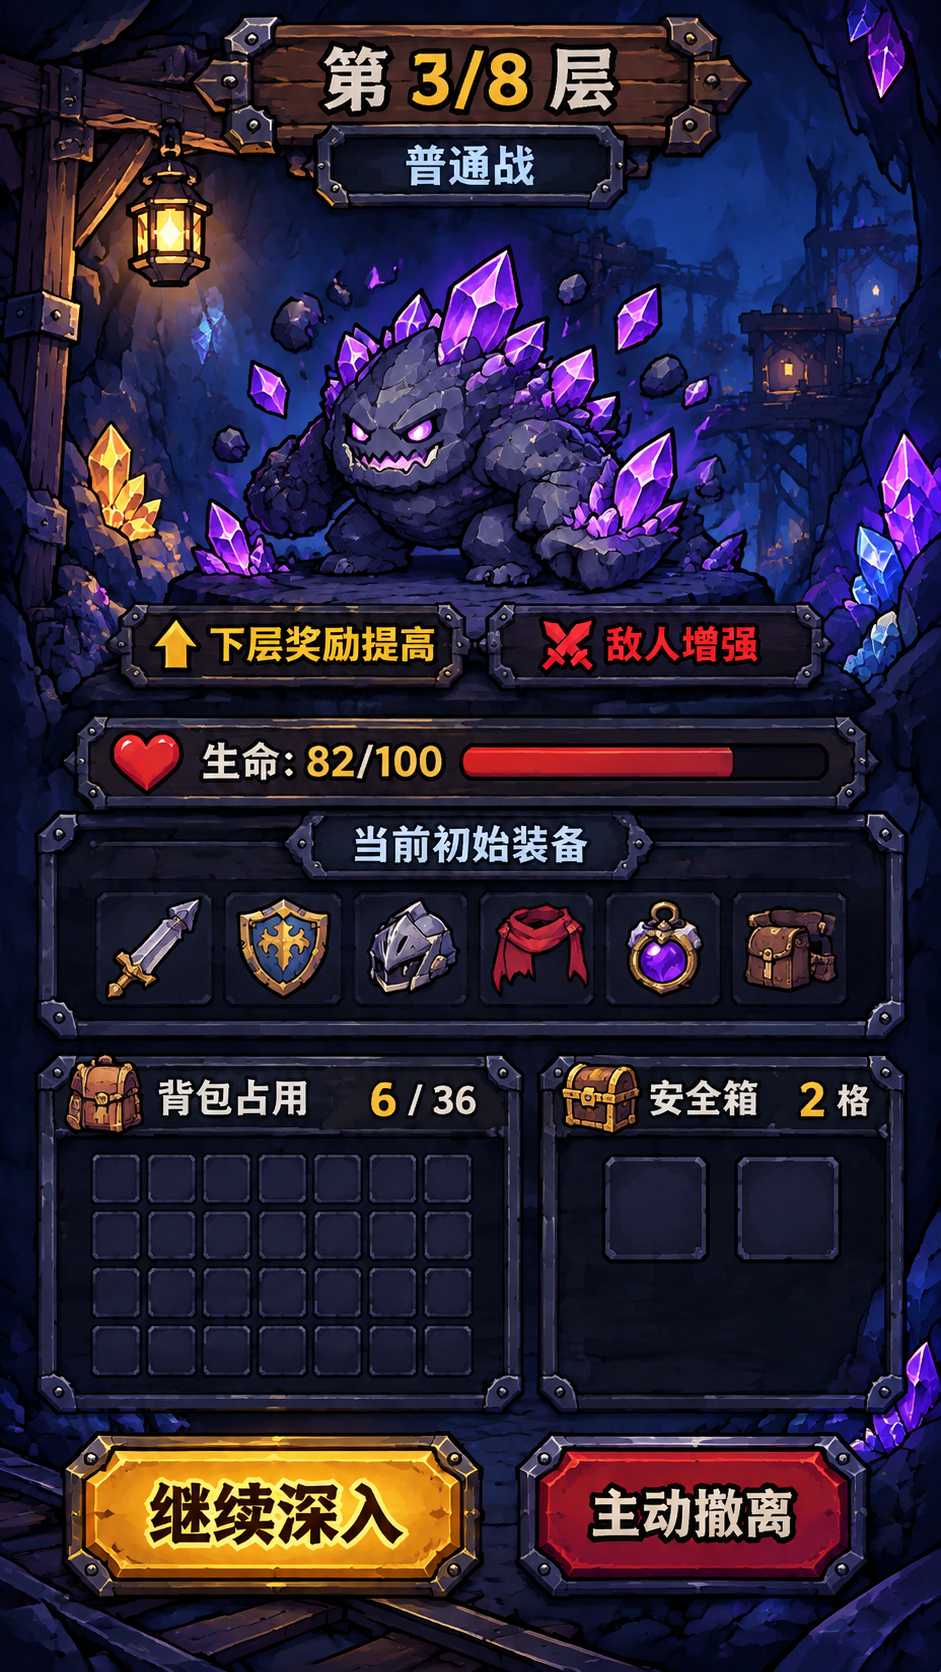
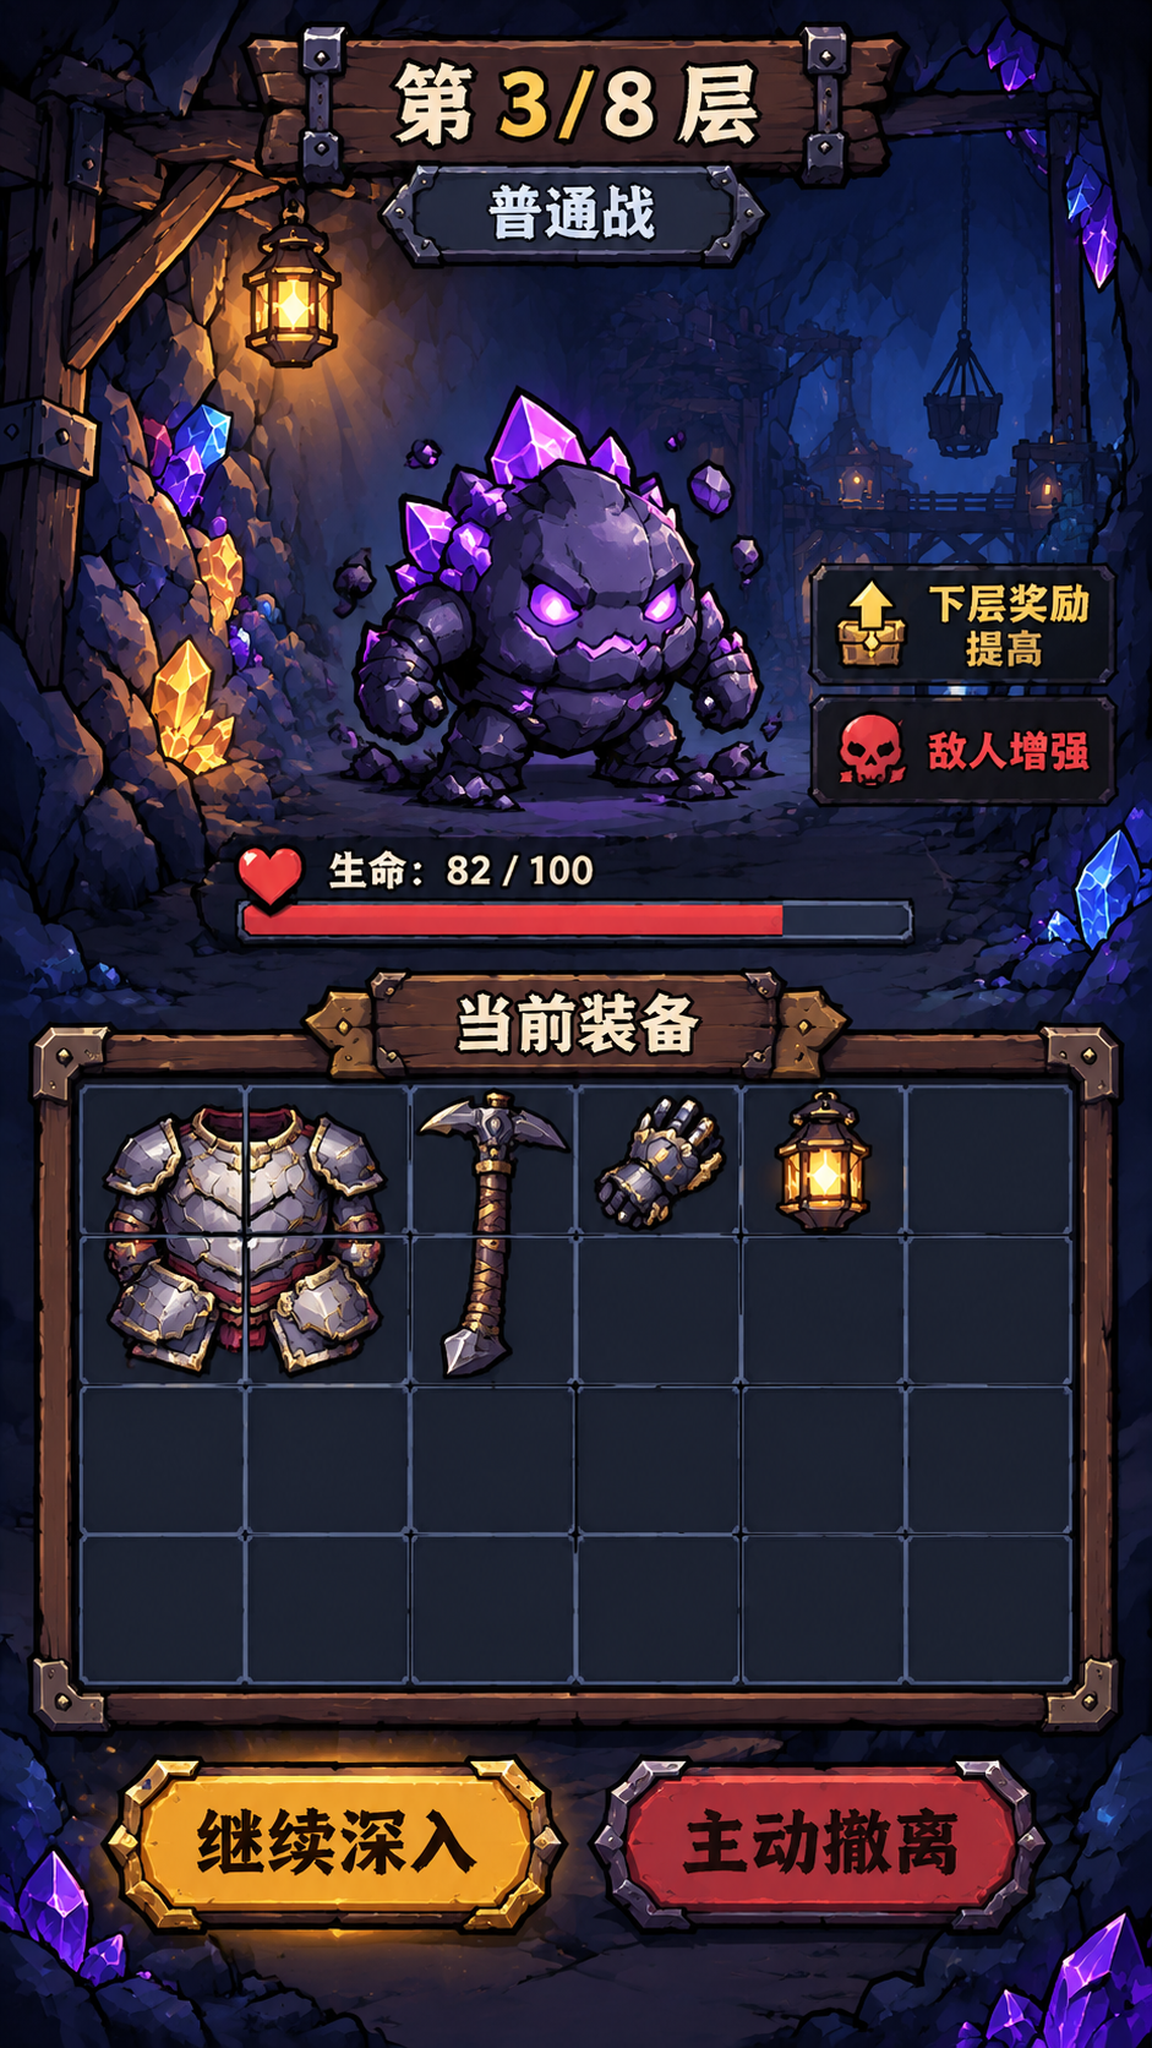
feat：矿脉行者 SC-003 改展示当前装备 6×4 栏，新增装备→形状分配表（E01–E12）
- 01-GAMEPLAY：新增 P016 装备→形状分配表为唯一真源（12 件装备对齐 8 种形状；初始 4 件固定为 手套 1×1／矿灯 1×1／矿镐 1×2／护甲 2×2）；P004/P005/P015 验证场景修正
- 02-SCENES：SC-003 移除背包/安全箱摘要、改「当前装备」6×4 栏（24 格）并同步布局坐标与关联参数；SC-005 附分配表；珊瑚红改缨红
- 03-ASSETS：A003 生产卡提示词同步（不展示背包占用与安全箱摘要）
- 04-DECISIONS：记录 SC-003 改版与分配表两条决定；修正旧记录 4×4 笔误
- SC-003 效果图按新装备栏重生成

diff --git a/public/designs/矿脉行者/docs/01-GAMEPLAY.md b/public/designs/矿脉行者/docs/01-GAMEPLAY.md
@@ -97,8 +97,8 @@
 | P001 | 体力上限 | 10 | 达到上限停止累计 | 待实现侧登记 | SC-001 |
 | P002 | 每次下矿消耗 | 2 | 进入第一层扣除，结局不返还 | 待实现侧登记 | SC-001 |
 | P003 | 体力恢复间隔 | 15 分钟 / 点 | 现实时间，离线照算 | 待实现侧登记 | SC-001 |
-| P004 | 背包网格 | 6×6 | 36 格；资源 1×1 不叠加 | 待实现侧登记 | SC-003、SC-005 |
-| P005 | 安全箱格数 | 2 | 固定；仅矿石／玉石 | 待实现侧登记 | SC-003、SC-005、SC-006 |
+| P004 | 背包网格 | 6×6 | 36 格；资源 1×1 不叠加 | 待实现侧登记 | SC-005 |
+| P005 | 安全箱格数 | 2 | 固定；仅矿石／玉石 | 待实现侧登记 | SC-005、SC-006 |
 | P006 | 初始生命 | 100 | 跨战斗保留 | 待实现侧登记 | SC-003、SC-004 |
 | P007 | 普通胜利回复 | 最大生命 10% | 不超过生命上限 | 待实现侧登记 | SC-004 |
 | P008 | 每层敌人成长 | 生命与攻击 +15% | 以当前层配置为基线，逐层应用 | 待实现侧登记 | SC-003、SC-004 |
@@ -108,8 +108,27 @@
 | P012 | MVP 装备数量 | 12 | 矿镐、护甲、手套、矿灯四类；固定初始 4 件 | 待实现侧登记 | SC-005 |
 | P013 | 玉石种类 | 4 | 只收藏，不打造 | 待实现侧登记 | SC-002 |
 | P014 | 玉石品质档数 | 3 | 种类、品质、数量分别汇总 | 待实现侧登记 | SC-002 |
-| P015 | 装备栏网格 | 6×4 | 24 格；仅装备且属性生效 | 待实现侧登记 | SC-005 |
-| P016 | 装备占格形状 | 8 种 | 1×1、1×2、2×2、2×3、2×2L形、2×3L形、2×3、3×2；可顺时针旋转 90° | 待实现侧登记 | SC-005 |
+| P015 | 装备栏网格 | 6×4 | 24 格；仅装备且属性生效 | 待实现侧登记 | SC-003、SC-005 |
+| P016 | 装备占格形状 | 8 种 | 1×1、1×2、2×2、2×3、2×2L形、2×3L形、2×3、3×2；可顺时针旋转 90° | 待实现侧登记 | SC-003、SC-005 |
+
+**P016 装备→形状分配表**（本表为唯一真源；装备名为 MVP 默认命名，数值与命名可由策划后续调整，形状变更需记入 04-DECISIONS）：
+
+| 装备 ID | 装备名 | 类别 | 档位 | 占格形状 | 格数 |
+|---|---|---|---|---|---:|
+| E01 | 旧手套 | 手套 | 初始 | 1×1 | 1 |
+| E02 | 旧矿灯 | 矿灯 | 初始 | 1×1 | 1 |
+| E03 | 训练矿镐 | 矿镐 | 初始 | 1×2（竖放） | 2 |
+| E04 | 轻型护甲 | 护甲 | 初始 | 2×2 | 4 |
+| E05 | 岩羊皮手套 | 手套 | 进阶 | 1×1 | 1 |
+| E06 | 萤石提灯 | 矿灯 | 进阶 | 1×2 | 2 |
+| E07 | 秘银矿镐 | 矿镐 | 进阶 | 2×2 | 4 |
+| E08 | 钩爪护手 | 手套 | 高级 | 2×2L形 | 4 |
+| E09 | 岩壳胸甲 | 护甲 | 进阶 | 2×3 | 6 |
+| E10 | 深渊探灯 | 矿灯 | 高级 | 2×3L形 | 5 |
+| E11 | 守壁重甲 | 护甲 | 高级 | 3×2 | 6 |
+| E12 | 星陨矿镐 | 矿镐 | 高级 | 2×3 | 6 |
+
+约束：初始 4 件固定为 E01–E04，任意 6×4 装备栏都能容纳；同类装备形状随档位只增不减；8 种形状全部被至少 1 件装备使用。
 
 调参必须说明影响机制、验证场景与合格标准。矿石／玉石内部掉落权重、具体装备数值和敌人技能数值不在本轮擅自补充，进入实现前由策划另行确认。
 

diff --git a/public/designs/矿脉行者/docs/02-SCENES.md b/public/designs/矿脉行者/docs/02-SCENES.md
@@ -162,8 +162,8 @@
 
 | 项 | 内容 |
 |---|---|
-| 玩家目标 | 查看当前深度、敌人、生命和储物摘要，决定继续深入或主动撤离 |
-| 关联玩法 / 参数 | M01、M02、M03、M04；P004–P008、P011 |
+| 玩家目标 | 查看当前深度、敌人、生命和当前装备，决定继续深入或主动撤离 |
+| 关联玩法 / 参数 | M01、M02、M03、M04；P006–P008、P011、P015 |
 | 设计稿 | `screens/intermission.svg`，1080×1920 |
 | 适配范围 | 9:16 竖屏；敌人预告与决策按钮固定，摘要保持一屏可读 |
 | 安全区 | 左右 48、顶部 60、底部 64；撤离与继续均避开手势条 |
@@ -183,8 +183,7 @@
 |---|---:|---:|---:|---:|---|---:|---|---|
 | depth-header | 48 | 72 | 984 | 140 | 顶部 | 30 | 当前深度、战斗类型 | A003 |
 | enemy-preview | 48 | 244 | 984 | 600 | 顶部居中 | 20 | 敌人剪影、预告与成长信息 | A003 |
-| run-status | 48 | 876 | 984 | 260 | 顶部居中 | 20 | 当前生命与初始装备摘要 | A003 |
-| storage-summary | 48 | 1172 | 984 | 240 | 顶部居中 | 20 | 背包 6×6 与安全箱 2 格摘要 | A003 |
+| run-status | 48 | 876 | 984 | 520 | 顶部居中 | 20 | 当前生命与「当前装备」6×4 栏（24 格，格距严格等大）；初始 4 件形状：护甲 2×2、矿镐 1×2、手套 1×1、矿灯 1×1 | A003 |
 | depth-actions | 48 | 1472 | 984 | 160 | 顶部居中 | 30 | 继续主按钮、撤离次按钮 | A003 |
 
 ### 4. 交互逻辑
@@ -320,7 +319,24 @@
 | inventory-tools | 48 | 1390 | 984 | 260 | 顶部居中 | 30 | 旋转、移动、替换、丢弃、跳过 | A005 |
 | post-continue | 48 | 1690 | 984 | 120 | 顶部居中 | 30 | 奖励处理完成后可用 | A005 |
 
-装备栏与背包同为 6 列、单元格等大，装备栏 6×4 共 24 格、背包 6×6，仅以不同行数做视觉分组，实际占格规则一致；拖拽热区应覆盖整个格子，冲突格用珊瑚红标示。
+装备栏与背包同为 6 列、单元格等大，装备栏 6×4 共 24 格、背包 6×6，仅以不同行数做视觉分组，实际占格规则一致；拖拽热区应覆盖整个格子，冲突格用缨红标示。
+
+**装备→形状分配表**（真源为 01-GAMEPLAY P016；装备占格形状供本场景网格与美术对照）：
+
+| 装备 ID | 装备名 | 类别 | 档位 | 占格形状 | 格数 |
+|---|---|---|---|---|---:|
+| E01 | 旧手套 | 手套 | 初始 | 1×1 | 1 |
+| E02 | 旧矿灯 | 矿灯 | 初始 | 1×1 | 1 |
+| E03 | 训练矿镐 | 矿镐 | 初始 | 1×2（竖放） | 2 |
+| E04 | 轻型护甲 | 护甲 | 初始 | 2×2 | 4 |
+| E05 | 岩羊皮手套 | 手套 | 进阶 | 1×1 | 1 |
+| E06 | 萤石提灯 | 矿灯 | 进阶 | 1×2 | 2 |
+| E07 | 秘银矿镐 | 矿镐 | 进阶 | 2×2 | 4 |
+| E08 | 钩爪护手 | 手套 | 高级 | 2×2L形 | 4 |
+| E09 | 岩壳胸甲 | 护甲 | 进阶 | 2×3 | 6 |
+| E10 | 深渊探灯 | 矿灯 | 高级 | 2×3L形 | 5 |
+| E11 | 守壁重甲 | 护甲 | 高级 | 3×2 | 6 |
+| E12 | 星陨矿镐 | 矿镐 | 高级 | 2×3 | 6 |
 
 ### 4. 交互逻辑
 

diff --git a/public/designs/矿脉行者/docs/04-DECISIONS.md b/public/designs/矿脉行者/docs/04-DECISIONS.md
@@ -21,6 +21,8 @@
 | 2026-10-31 | SVG 保持 1080×1920；场景 PNG 保留 game-images-mcp 原生竖屏高清尺寸，不做本地缩放 | 本地缩放受安全策略限制，且 PNG 仅作审核效果图，不影响 SVG 设计坐标 | 六张场景图、03-ASSETS、审核单 |
 | 2026-10-31 | 统一风格参考由「明亮卡通矿场」文字约束切换为用户提供的骑士角色设定图（`assets/ref/knight-character-sheet.jpg`）+ 派生锚点 `assets/ref/anchor.png`；色板改为深靛蓝底 + 缨红／剑金／技能紫，锚点图由 game-images-mcp 生成 | 用户提供骑士角色设定图作为新的风格真源，文字约束不足以锁定画风 | 03-ASSETS 已同步改写；已生成的六张旧风格场景 PNG 与六份 SVG 需按新锚点重做并重新审核 |
 | 2026-10-31 | 六张场景效果图已按新锚点整体重生成并替换（SC-001～SC-006，720×1280 / 941×1672），尺寸规格补充 720×1280 档；SC-002 详情文案提及「打造高级装备」与 MVP 打造仅预留冲突，待人工审核裁定 | 执行上一条风格切换决定，闭合新风格场景链路 | `assets/scene/` 全部六张、03-ASSETS 生产卡与尺寸规格、六份审核单 |
+| 2026-10-31 | SC-003 移除背包占用与安全箱摘要，改展示标题为「当前装备」的 6×4 装备栏（24 格）；装备栏全线统一 6×4，修正旧记录「装备栏 4×4」的笔误 | 层间页聚焦推进决策，储物摘要只保留在 SC-005／SC-006；01-GAMEPLAY P015 早已定为 6×4，旧决策记录与参数表不一致 | 02-SCENES SC-003 场景卡、03-ASSETS A003 生产卡、01-GAMEPLAY P004/P005/P015 验证场景、SC-003 效果图重生成 |
+| 2026-10-31 | 新增「装备→形状」分配表（E01–E12，写入 01-GAMEPLAY P016 与 02-SCENES SC-005）：8 种占格形状全部分配到 12 件装备，初始 4 件固定为 手套 1×1／矿灯 1×1／矿镐 1×2／护甲 2×2；装备名定为 MVP 默认命名，策划可改名但形状变更需再记决策 | P016 只定义了形状集合但未落到具体装备，美术与实现无从对照；SC-003 效果图需要明确的形状摆法 | 01-GAMEPLAY P016、02-SCENES SC-003/SC-005、SC-003 效果图装备摆法 |
 | 2026-10-31 | 装备栏由 4×4 改为 6×4（24 格）；装备占格形状明确为 8 种：1×1、1×2、2×2、2×3、2×2L形、2×3L形、2×3、3×2，新增参数 P015／P016 | 扩大装备空间，让形状种类可直接配置与校验 | M03、P015、P016、SC-005、00-OVERVIEW、03-ASSETS |
 
 ## 已否决的方案
